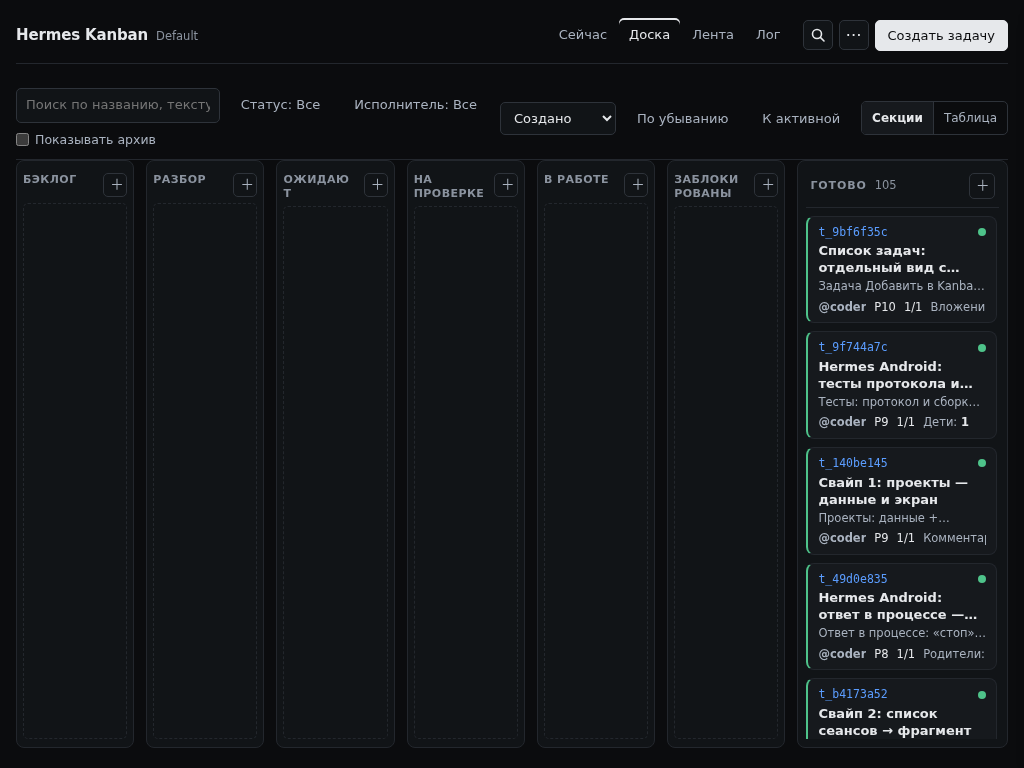
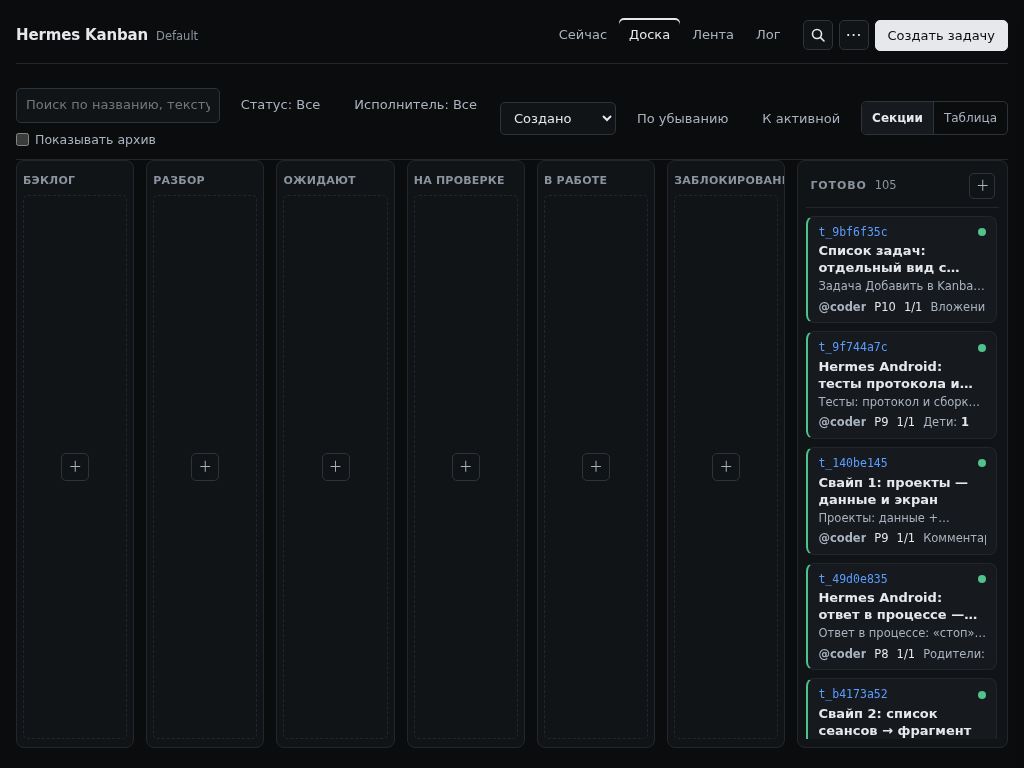
Доска: «＋» переехал в зону броска пустого статуса, подпись не рвётся
«ЗАБЛОКИРОВАНЫ» ломалось на «ЗАБЛОКИРОВАН / Ы»: кнопка «＋» в шапке
съедала ширину. Теперь у пустой колонки шапка — только подпись во всю
ширину, а «＋» стоит по центру пунктирной зоны броска (она же цель для
drag&drop). Клик по «＋» открывает создание задачи с этим статусом
(проверено: status=triage).

diff --git a/static/style.css b/static/style.css
@@ -165,16 +165,14 @@ label { color: var(--mut); font-size: 12.5px; }
    есть «＋», — но узкой: ширину делят колонки с задачами. */
 .board-column.is-empty { flex: 1 1 132px; min-width: 104px; max-width: 220px; padding: 8px 6px; }
 .board-column.is-empty .cards { display: none; }
-.board-column.is-empty header { padding: 4px 0 6px; border-bottom: 0; align-items: flex-start; }
-.board-column.is-empty header div { gap: 4px; flex-wrap: wrap; }
-/* Узкая дорожка: подпись влезает целиком («ЗАБЛОКИРОВАНЫ», а не «ЗАБЛОКИРО…»),
-   а нулевой счётчик не нужен — пустоту видно по самой колонке. */
-.board-column.is-empty header h2 { white-space: normal; overflow-wrap: break-word; line-height: 1.25; font-size: 11px; letter-spacing: .04em; text-transform: uppercase; }
-.board-column.is-empty header small { display: none; }
-.board-column.is-empty .mini-add { width: 24px; height: 24px; }
-/* Зона броска для пустого статуса: пунктир без подписи. Слово «Нет» шесть раз
-   подряд — шум; намерение читается по рамке, а действие есть в шапке («＋»). */
-.column-empty { flex: 1 1 auto; min-height: 56px; border: 1px dashed var(--line); border-radius: var(--r-sm); }
+.board-column.is-empty header { padding: 4px 0 6px; border-bottom: 0; }
+.board-column.is-empty header div { gap: 0; }
+/* Подпись занимает всю шапку: «ЗАБЛОКИРОВАНЫ» влезает одной строкой и не
+   рвётся на «ЗАБЛОКИРОВАН / Ы». Кнопка «＋» переехала в зону броска. */
+.board-column.is-empty header h2 { white-space: nowrap; overflow: visible; font-size: 11px; letter-spacing: .02em; text-transform: uppercase; }
+/* Пунктирная зона пустого статуса — цель для броска карточки и кнопка «＋». */
+.column-empty { flex: 1 1 auto; display: grid; place-items: center; min-height: 56px; border: 1px dashed var(--line); border-radius: var(--r-sm); }
+.column-empty .mini-add { width: 28px; height: 28px; }
 .cards { position: relative; z-index: 2; display: grid; align-content: start; gap: 8px; min-width: 0; flex: 1 1 auto; min-height: 0; overflow-y: auto; overscroll-behavior: contain; padding-top: 8px; padding-right: 2px; scrollbar-width: thin; }
 .empty { border: 1px dashed var(--line-strong); border-radius: var(--r-md); padding: 18px; color: var(--faint); text-align: center; }
 .drop-target { outline: 2px solid var(--run); }

diff --git a/static/board.js b/static/board.js
@@ -163,12 +163,18 @@ export function renderBoard(data) {
     const classes = ['board-column'];
     if (!tasks.length) classes.push('is-empty');
     if (!tasks.length && expanded) classes.push('is-expanded');
-    return `<section class="${classes.join(' ')}" data-status="${escapeHtml(status)}">
-      <header><div><h2>${escapeHtml(t(status))}</h2><small class="num">${tasks.length}</small></div><button type="button" class="mini-add" data-status="${escapeHtml(status)}" aria-label="${escapeHtml(t('taskCreate'))}">＋</button></header>
+    // Пустой статус: подпись во всю ширину шапки (иначе «ЗАБЛОКИРОВАНЫ» рвался
+    // на «Ы»), а «＋» живёт в пунктирной зоне — она же цель для броска карточки.
+    const head = !tasks.length
+      ? `<header><div><h2>${escapeHtml(t(status))}</h2></div></header>
       <div class="drop-placeholder"></div>
-      ${!tasks.length ? '<div class="column-empty" aria-hidden="true"></div>' : ''}
+      <div class="column-empty"><button type="button" class="mini-add" data-status="${escapeHtml(status)}" aria-label="${escapeHtml(t('taskCreate'))}">＋</button></div>`
+      : `<header><div><h2>${escapeHtml(t(status))}</h2><small class="num">${tasks.length}</small></div><button type="button" class="mini-add" data-status="${escapeHtml(status)}" aria-label="${escapeHtml(t('taskCreate'))}">＋</button></header>
+      <div class="drop-placeholder"></div>
       <div class="cards">${shown.map(card).join('')}</div>
-      ${more}
+      ${more}`;
+    return `<section class="${classes.join(' ')}" data-status="${escapeHtml(status)}">
+      ${head}
     </section>`;
   }).join('');
 
